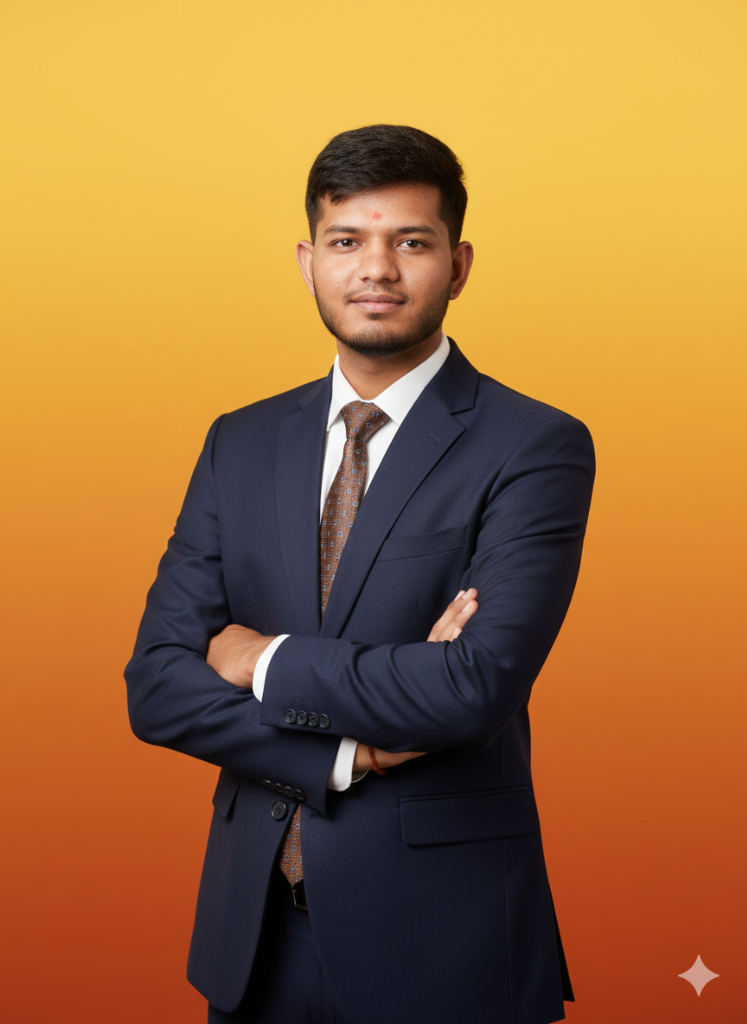
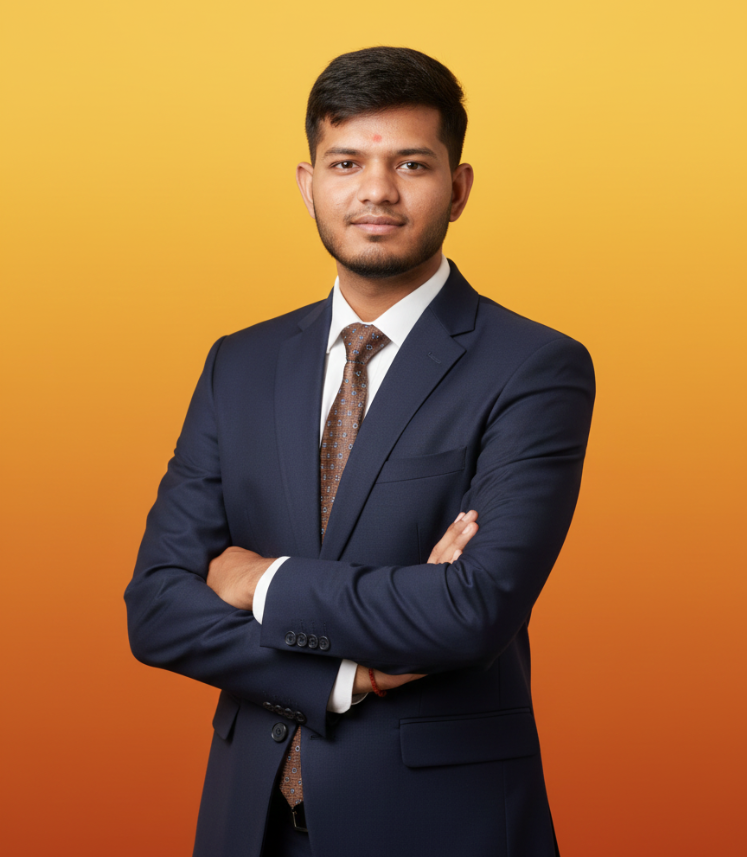
feat: Add Docker setup with Dockerfile, docker-compose, and Nginx configuration

diff --git a/index.html b/index.html
@@ -1,27 +1,32 @@
 <!doctype html>
 <html lang="en">
-  <head>
-    <meta charset="UTF-8" />
-    <meta name="viewport" content="width=device-width, initial-scale=1.0" />
-    <title>3D Portfolio | Full Stack Developer</title>
-    <meta name="description" content="Interactive 3D portfolio showcasing modern web development projects with React, Three.js, and TypeScript" />
-    <meta name="author" content="Developer Portfolio" />
-    <link rel="preconnect" href="https://fonts.googleapis.com">
-    <link rel="preconnect" href="https://fonts.gstatic.com" crossorigin>
-    <link href="https://fonts.googleapis.com/css2?family=Inter:wght@400;500;600;700;800&family=JetBrains+Mono:wght@400;500;600;700&display=swap" rel="stylesheet">
 
-    <meta property="og:title" content="3D Portfolio | Full Stack Developer" />
-    <meta property="og:description" content="Interactive 3D portfolio showcasing modern web development projects" />
-    <meta property="og:type" content="website" />
-    <meta property="og:image" content="https://lovable.dev/opengraph-image-p98pqg.png" />
+<head>
+  <meta charset="UTF-8" />
+  <meta name="viewport" content="width=device-width, initial-scale=1.0" />
+  <title>Neel Prajapati | Full Stack Developer</title>
+  <meta name="description"
+    content="Interactive 3D portfolio showcasing modern web development projects with React, Three.js, and TypeScript" />
+  <meta name="author" content="Developer Portfolio" />
+  <link rel="preconnect" href="https://fonts.googleapis.com">
+  <link rel="preconnect" href="https://fonts.gstatic.com" crossorigin>
+  <link
+    href="https://fonts.googleapis.com/css2?family=Inter:wght@400;500;600;700;800&family=JetBrains+Mono:wght@400;500;600;700&display=swap"
+    rel="stylesheet">
 
-    <meta name="twitter:card" content="summary_large_image" />
-    <meta name="twitter:site" content="@developer" />
-    <meta name="twitter:image" content="https://lovable.dev/opengraph-image-p98pqg.png" />
-  </head>
+  <meta property="og:title" content="3D Portfolio | Full Stack Developer" />
+  <meta property="og:description" content="Interactive 3D portfolio showcasing modern web development projects" />
+  <meta property="og:type" content="website" />
+  <meta property="og:image" content="https://lovable.dev/opengraph-image-p98pqg.png" />
 
-  <body>
-    <div id="root"></div>
-    <script type="module" src="/src/main.tsx"></script>
-  </body>
+  <meta name="twitter:card" content="summary_large_image" />
+  <meta name="twitter:site" content="@developer" />
+  <meta name="twitter:image" content="https://lovable.dev/opengraph-image-p98pqg.png" />
+</head>
+
+<body>
+  <div id="root"></div>
+  <script type="module" src="/src/main.tsx"></script>
+</body>
+
 </html>
